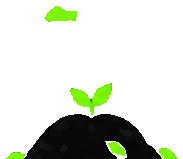
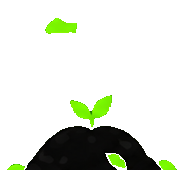
Re-splice owl frames on supplied uniform grid + tight boxes
- Cell grid 307.2x170.67 (rows 0/170/341/512/682/853/1024) with the given
  per-frame content boxes (+3px pad, clamped to cells so row bleeds can't
  leak in); same anchor-based bg removal as before
- WITHERING_FRAME_SIZES re-measured to match; stage stays 220x171

diff --git a/src/theme/mascot.ts b/src/theme/mascot.ts
@@ -97,12 +97,12 @@ export const WITHERING_FRAMES_LIST: ImageSourcePropType[] = [
 ];
 /** Native pixel sizes matching WITHERING_FRAMES_LIST order. */
 export const WITHERING_FRAME_SIZES: ReadonlyArray<readonly [number, number]> = [
-  [194, 144], [160, 135], [155, 125], [152, 106], [158, 81],
-  [199, 119], [192, 120], [187, 117], [190, 117], [192, 117],
-  [170, 170], [169, 169], [165, 166], [173, 166], [133, 166],
-  [174, 161], [183, 159], [189, 171], [220, 164], [193, 161],
-  [180, 170], [183, 170], [158, 170], [206, 170], [201, 170],
-  [185, 113], [154, 85], [139, 64], [148, 46], [148, 88],
+  [192, 140], [152, 149], [148, 137], [145, 137], [147, 128],
+  [196, 171], [188, 171], [183, 171], [187, 171], [192, 171],
+  [161, 171], [168, 171], [164, 171], [173, 171], [144, 171],
+  [173, 170], [182, 170], [188, 170], [220, 170], [194, 170],
+  [183, 171], [187, 171], [189, 171], [207, 171], [202, 171],
+  [187, 141], [155, 104], [138, 139], [141, 138], [149, 138],
 ];
 /** Fixed stage all crops play on (source px): max tight-crop size — every
  * crop is contain-fit into it (smaller frames scale up), centered,
